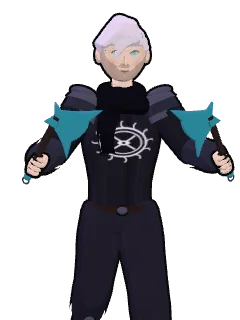
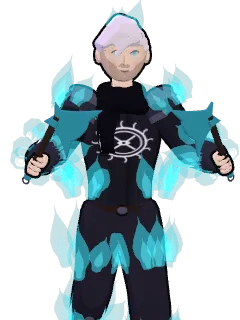
Celestine com as chamas de energia das miniaturas
- energyFlames: línguas de fogo turquesa que tremulam sozinhas e ficam sempre de pé
- Na cabeça, nos ombros, nos braços, nos lados do tronco e subindo das pernas
  (vale também na forma Celestine, a Magistrada)
- Retrato da página Sobre atualizado

diff --git a/src/models/weapons.js b/src/models/weapons.js
@@ -1475,6 +1475,54 @@ export function despairMask() {
   return g;
 }
 
+// CHAMAS DE ENERGIA (Celestine nas miniaturas de Calamidade): línguas de fogo azul-turquesa saindo do corpo e do cabelo.
+// Cada língua é uma gota (torno) em duas camadas somadas (fora turquesa, dentro quase branca) que tremula sozinha no
+// onBeforeRender — anda na luta, na seleção e nos retratos sem precisar de atualização de fora.
+const FLAME_GEO = (() => {
+  const pts = [];
+  for (let i = 0; i <= 10; i++) {
+    const t = i / 10; // 0 = base, 1 = ponta
+    pts.push(new THREE.Vector2(Math.sin(Math.min(1, t * 1.6) * Math.PI) * 0.5 * (1 - t) ** 0.8 + (t < 0.05 ? 0.2 : 0), t));
+  }
+  return new THREE.LatheGeometry(pts, 8);
+})();
+const _flameQ = new THREE.Quaternion();
+export function energyFlames(color = 0x3ae8ff, { count = 5, radius = 0.08, height = 0.24, width = 0.07, lean = 0 } = {}) {
+  const g = new THREE.Group();
+  // somadas umas às outras estouram para o branco: o turquesa vai mais escuro e a de dentro mais fraca
+  const outer = glowMat(new THREE.Color(color).multiplyScalar(0.62), 0.5);
+  const inner = glowMat(0x5ae0f0, 0.32);
+  for (let i = 0; i < count; i++) {
+    const a = (i / count) * Math.PI * 2 + Math.random() * 0.6;
+    const r = radius * (0.6 + Math.random() * 0.4);
+    const h = height * (0.65 + Math.random() * 0.55);
+    const tongue = new THREE.Group();
+    tongue.position.set(Math.cos(a) * r, -h * 0.25, Math.sin(a) * r);
+    const tilt = [Math.sin(a) * 0.3 + lean, -Math.cos(a) * 0.3]; // abre para fora do corpo
+    tongue.rotation.set(tilt[0], 0, tilt[1]);
+    const o = new THREE.Mesh(FLAME_GEO, outer);
+    o.scale.set(width, h, width);
+    const n = new THREE.Mesh(FLAME_GEO, inner);
+    n.scale.set(width * 0.45, h * 0.6, width * 0.45);
+    tongue.add(o, n);
+    const phase = Math.random() * 10;
+    const speed = 7 + Math.random() * 5;
+    o.onBeforeRender = () => {
+      // o fogo sobe sempre para cima, qualquer que seja a pose do osso (vale no quadro seguinte)
+      if (i === 0 && g.parent) g.quaternion.copy(g.parent.getWorldQuaternion(_flameQ).invert());
+      const t = performance.now() / 1000 * speed + phase;
+      tongue.scale.set(1 + Math.sin(t * 1.3) * 0.12, 1 + Math.sin(t) * 0.22 + Math.sin(t * 2.7) * 0.08, 1);
+      tongue.rotation.y = Math.sin(t * 0.4) * 0.5;
+      // a ponta balança (a chama ondula em vez de ficar parada como vela)
+      tongue.rotation.x = tilt[0] + Math.sin(t * 0.9) * 0.22;
+      tongue.rotation.z = tilt[1] + Math.cos(t * 0.7) * 0.22;
+    };
+    g.add(tongue);
+  }
+  g.userData.noShadow = true;
+  return g;
+}
+
 // MÁSCARAS DA SEITA (wiki "Seita das Máscaras"): cada membro tem a sua — branca, preta ou riscada de vermelho. A do
 // NATHANIEL: branca, o coração dourado invertido no alto, estrelas de quatro pontas em volta dos olhos e lágrimas pretas.
 // Mesmo mapa da Máscara do Desespero (meia-esfera: u = de um lado ao outro, centro 128; v = de cima para baixo).

diff --git a/src/models/props.js b/src/models/props.js
@@ -1,7 +1,7 @@
 import * as THREE from 'three';
 import { glowMat, toon } from './rig.js';
 import { MATERIAL_TEXTURES } from './textures.js';
-import { katana, scabbard, shiNoKage, relicScabbard, relicBlade, m4, sniper, guitarCase, bloodArm, bloodForearmBlade, knife, karambit, sickleBlade, mutilatorAxe, shotgun, handGrenade, antenna, barbedBat, chaosSkate, leonora, magnum, espadaConsumidora, facaPredadora, sniperFantasma, baluAxe, demonMace, gasMask, swordArnaldo, pocketWatch, roundGlasses, neonWraps, pulseEmitter, bandolier, bengala, mustache, socadeira, peixeira, spikedLantern, tenebrisPendant, chainHatchet, despairMask, seitaMask, SEITA_MASKS } from './weapons.js';
+import { katana, scabbard, shiNoKage, relicScabbard, relicBlade, m4, sniper, guitarCase, bloodArm, bloodForearmBlade, knife, karambit, sickleBlade, mutilatorAxe, shotgun, handGrenade, antenna, barbedBat, chaosSkate, leonora, magnum, espadaConsumidora, facaPredadora, sniperFantasma, baluAxe, demonMace, gasMask, swordArnaldo, pocketWatch, roundGlasses, neonWraps, pulseEmitter, bandolier, bengala, mustache, socadeira, peixeira, spikedLantern, tenebrisPendant, chainHatchet, despairMask, seitaMask, SEITA_MASKS, energyFlames } from './weapons.js';
 
 // Armas e acessórios adicionados em código sobre os modelos do Blender.
 // Usam só `sockets`, `attach()` e `props`, que existem nos dois tipos de rig.
@@ -1100,6 +1100,17 @@ export function addCelestineProps(rig) {
   mask.visible = false;
   sockets.mouth.add(mask);
   props.despairMask = mask;
+  // as CHAMAS DE ENERGIA azul-turquesa das miniaturas de Calamidade: no cabelo, nos ombros, nos braços, nos lados do
+  // tronco e subindo das pernas (que quase somem no fogo). Ficam sempre de pé (energyFlames: upright)
+  const at = (joint, pos, o) => { const f = energyFlames(0x3ae8ff, o); f.position.set(...pos); rig.attach(joint, f); };
+  at('hd', [0, 0.3, -0.03], { count: 3, radius: 0.03, height: 0.3, width: 0.14 });
+  for (const [side, sx] of [['L', 1], ['R', -1]]) {
+    at('s' + side, [0.05 * sx, 0.02, 0], { count: 6, radius: 0.11, height: 0.38, width: 0.15 });
+    at('e' + side, [0.02 * sx, -0.12, 0], { count: 8, radius: 0.11, height: 0.44, width: 0.15 });
+    at('sp', [0.2 * sx, 0.1, 0], { count: 6, radius: 0.09, height: 0.46, width: 0.15 });
+    at('l' + side, [0.04 * sx, -0.2, 0], { count: 7, radius: 0.13, height: 0.46, width: 0.16 });
+    at('k' + side, [0, -0.26, 0], { count: 9, radius: 0.12, height: 0.52, width: 0.17 });
+  }
 }
 
 // CELESTINE, A MAGISTRADA: o mesmo corpo com a Máscara do Desespero no rosto
